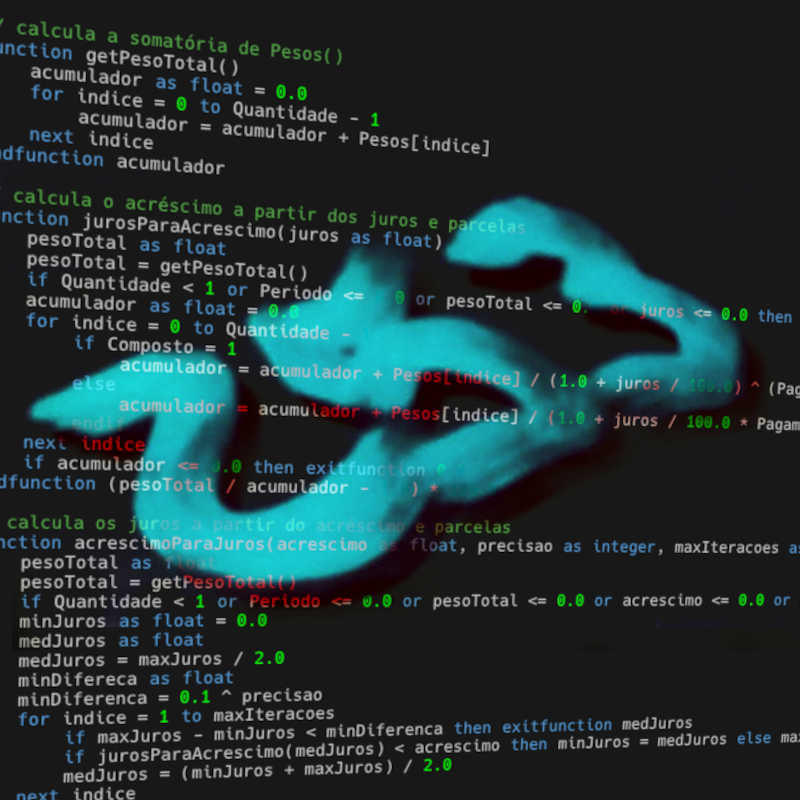
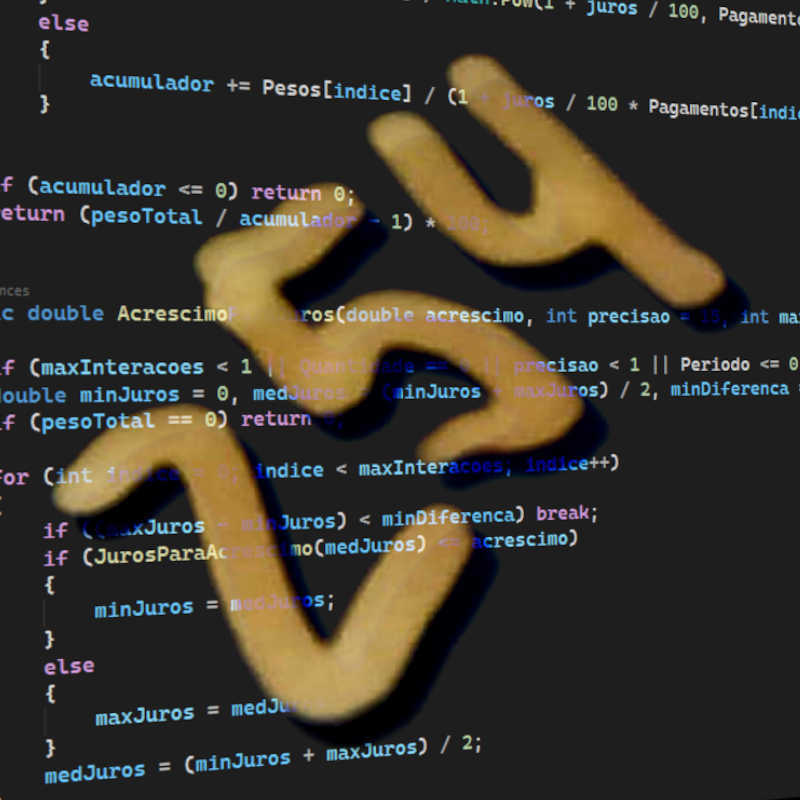
Add files via upload
+ SnapDevelop C#

diff --git a/JurosSD.cs b/JurosSD.cs
@@ -1,0 +1,90 @@
+// Cálculo dos juros, sendo que precisa de parcelas pra isso
+// Versão 0.1: 23/04/2025: versão feita sem muito conhecimento de SnapDevelop
+
+using System;
+
+namespace JurosSD
+{
+    public class JurosSD
+    {
+        private int _quantidade;
+        public bool Composto;
+        public double Periodo;
+        public double[] Pagamentos;
+        public double[] Pesos;
+
+        public int Quantidade
+        {
+            get { return _quantidade; }
+            set
+            {
+                int quantidade = (value > 0) ? value : 0;
+                _quantidade = quantidade;
+                Pagamentos = new double[quantidade];
+                Pesos = new double[quantidade];
+            }
+        }
+
+        public JurosSD(int quantidade = 0, bool composto = false, double periodo = 30.0)
+        {
+            _quantidade = (quantidade > 0) ? quantidade : 0;
+            Pagamentos = new double[_quantidade];
+            Pesos = new double[_quantidade];
+            Composto = composto;
+            Periodo = periodo;
+        }
+
+        public double GetPesoTotal()
+        {
+            double acumulador = 0;
+            for (int indice = 0; indice < Quantidade; indice++) acumulador += Pesos[indice];
+            return acumulador;
+        }
+
+        public double JurosParaAcrescimo(double juros)
+        {
+            if (juros == 0 || Quantidade == 0 || Periodo <= 0.0) return 0;
+            double pesoTotal = GetPesoTotal();
+            if (pesoTotal == 0) return 0;
+            double acumulador = 0;
+
+            for (int indice = 0; indice < Quantidade; indice++)
+            {
+                if (Composto)
+                {
+                    acumulador += Pesos[indice] / Math.Pow(1 + juros / 100, Pagamentos[indice] / Periodo);
+                }
+                else
+                {
+                    acumulador += Pesos[indice] / (1 + juros / 100 * Pagamentos[indice] / Periodo);
+                }
+            }
+
+            if (acumulador <= 0) return 0;
+            return (pesoTotal / acumulador - 1) * 100;
+        }
+
+        public double AcrescimoParaJuros(double acrescimo, int precisao = 15, int maxInteracoes = 100, double maxJuros = 50)
+        {
+            if (maxInteracoes < 1 || Quantidade == 0 || precisao < 1 || Periodo <= 0.0 || acrescimo <= 0 || maxJuros <= 0) return 0;
+            double minJuros = 0, medJuros = (minJuros + maxJuros) / 2, minDiferenca = Math.Pow(0.1, precisao), pesoTotal = GetPesoTotal();
+            if (pesoTotal == 0) return 0;
+
+            for (int indice = 0; indice < maxInteracoes; indice++)
+            {
+                if ((maxJuros - minJuros) < minDiferenca) break;
+                if (JurosParaAcrescimo(medJuros) <= acrescimo)
+                {
+                    minJuros = medJuros;
+                }
+                else
+                {
+                    maxJuros = medJuros;
+                }
+                medJuros = (minJuros + maxJuros) / 2;
+            }
+
+            return medJuros;
+        }
+    }
+}

diff --git a/TesteJurosSD.cs b/TesteJurosSD.cs
@@ -1,0 +1,27 @@
+using JurosSD;
+
+class TesteJurosSD
+{
+    static void Main()
+    {
+        JurosSD.JurosSD juros = new(3, true, 30.0);
+
+        for (int indice = 0; indice < juros.Quantidade; indice++)
+        {
+            juros.Pagamentos[indice] = (indice + 1.0) * juros.Periodo;
+            juros.Pesos[indice] = 1.0;
+        }
+
+        double pesoTotal = juros.GetPesoTotal();
+        double acrescimoCalculado = juros.JurosParaAcrescimo(3.0);
+        double jurosCalculado = juros.AcrescimoParaJuros(acrescimoCalculado);
+
+        Console.Write("Peso total = ");
+        Console.WriteLine(pesoTotal);
+        Console.Write("Acréscimo = ");
+        Console.WriteLine(acrescimoCalculado);
+        Console.Write("Juros = ");
+        Console.WriteLine(jurosCalculado);
+        Console.ReadLine();
+    }
+}
